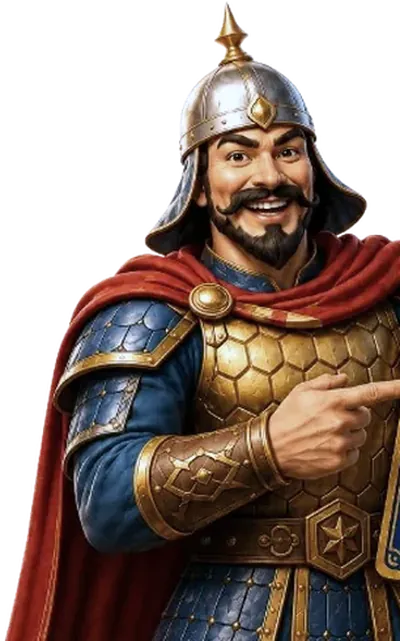
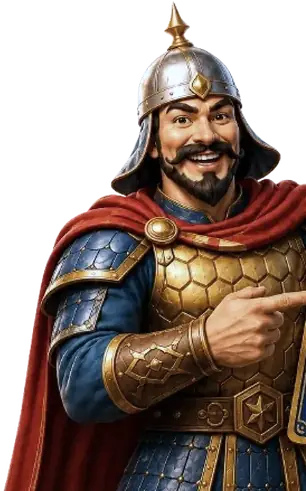
Speed pass: lighter hero (23KB), deferred 3rd-party scripts, KY baked in markup, legal only in Info block

diff --git a/index.html b/index.html
@@ -5,8 +5,8 @@
 <meta name="viewport" content="width=device-width, initial-scale=1.0, viewport-fit=cover">
 <meta name="theme-color" content="#1A1A1A">
 <meta name="robots" content="noindex, nofollow">
-<title data-i18n="page_title">Интерактивный формат для отдыха и развлечения</title>
-<meta name="description" data-i18n-attr="content" data-i18n="page_desc" content="Игровой формат для развлечения: собери комбинацию и открой результат в демо-режиме.">
+<title data-i18n="page_title">Эс алуу жана көңүл ачуу үчүн интерактивдүү формат</title>
+<meta name="description" data-i18n-attr="content" data-i18n="page_desc" content="Көңүл ачуу үчүн оюн форматы: комбинацияны жыйнап, натыйжаны демо-режимде ач.">
 <link rel="preload" as="image" href="hero.webp" fetchpriority="high">
 <style>
 *,*::before,*::after{box-sizing:border-box;margin:0;padding:0}
@@ -21,7 +21,6 @@ html{-webkit-text-size-adjust:100%}
 body{
   min-height:100dvh;
   font:400 16px/1.55 -apple-system,BlinkMacSystemFont,"Segoe UI",Roboto,"Helvetica Neue",Arial,sans-serif;
-  font-display:swap;
   color:var(--text);background:var(--bg);
   background-image:radial-gradient(ellipse 85% 48% at 50% 0%,rgba(30,15,47,.95) 0%,transparent 70%),linear-gradient(180deg,var(--bg2) 0%,var(--bg3) 46%,var(--bg) 100%);
   background-attachment:fixed;
@@ -33,6 +32,7 @@ body{
 /* ---------- header ---------- */
 .hdr{display:flex;align-items:center;justify-content:space-between;gap:12px;padding:14px 18px 0;max-width:var(--container);margin:0 auto}
 .hdr img{display:block;height:30px;width:28px;opacity:.95}
+.hdr-right{display:flex;align-items:center;gap:10px}
 .lang{display:flex;gap:2px;padding:3px;background:rgba(255,255,255,.06);border:1px solid var(--card-line);border-radius:100px}
 .lang button{font:700 12px/1 inherit;letter-spacing:.04em;padding:7px 13px;border:0;border-radius:100px;background:transparent;color:var(--dim);cursor:pointer;transition:background .18s,color .18s}
 .lang button.on{background:var(--accent);color:#08201F}
@@ -40,20 +40,19 @@ body{
 
 /* ---------- hero ---------- */
 .hero{padding:18px 0 4px;text-align:center}
-.hero-img{display:block;margin:0 auto;height:auto;width:158px;max-width:46vw;filter:drop-shadow(0 14px 34px rgba(60,199,196,.18))}
+.hero-img{display:block;margin:0 auto;height:auto;width:158px;max-width:46vw;aspect-ratio:306/491;filter:drop-shadow(0 14px 34px rgba(60,199,196,.18))}
 h1{font:800 clamp(25px,7.1vw,34px)/1.22 inherit;letter-spacing:-.015em;margin:14px 0 0;text-wrap:balance}
 .sub{font-size:15px;color:var(--muted);margin-top:10px;text-wrap:balance}
-.glow{position:absolute;inset:auto;pointer-events:none}
 
 /* ---------- filters + cards ---------- */
 .sect{margin-top:26px}
 .sect-label{font:700 11px/1 inherit;letter-spacing:.14em;text-transform:uppercase;color:var(--accent);margin-bottom:12px}
-.chips{display:flex;flex-wrap:wrap;gap:8px;margin-bottom:14px}
+.chips{display:flex;flex-wrap:wrap;gap:8px;margin-bottom:14px;min-height:33px}
 .chip{font:700 12px/1 inherit;padding:8px 14px;border-radius:100px;border:1px solid var(--card-line);background:var(--card);color:var(--muted);cursor:pointer;transition:border-color .18s,color .18s,background .18s,transform .12s}
 .chip:active{transform:scale(.96)}
 .chip.on{border-color:var(--accent-line);background:var(--accent-soft);color:var(--accent)}
 .cards{display:flex;flex-direction:column;gap:10px}
-.card{display:flex;align-items:center;gap:14px;padding:14px;border-radius:var(--radius);border:1px solid var(--card-line);background:var(--card);color:var(--text);text-decoration:none;opacity:0;transform:translateY(12px);animation:rise .42s ease forwards;transition:border-color .18s,background .18s,transform .14s}
+.card{display:flex;align-items:center;gap:14px;min-height:76px;padding:14px;border-radius:var(--radius);border:1px solid var(--card-line);background:var(--card);color:var(--text);text-decoration:none;opacity:0;transform:translateY(12px);animation:rise .42s ease forwards;transition:border-color .18s,background .18s,transform .14s}
 .card:nth-child(2){animation-delay:.07s}
 .card:nth-child(3){animation-delay:.14s}
 .card:active{transform:scale(.985);background:rgba(255,255,255,.085)}
@@ -69,17 +68,14 @@ h1{font:800 clamp(25px,7.1vw,34px)/1.22 inherit;letter-spacing:-.015em;margin:14
 .about{margin-top:26px;padding:16px;border-radius:var(--radius);border:1px solid var(--card-line);background:var(--card);font-size:14px;color:var(--muted)}
 .cta2{display:block;margin-top:18px;padding:16px;border-radius:var(--radius);border:1px solid var(--accent-line);background:transparent;color:var(--accent);font:700 15px/1 inherit;text-align:center;text-decoration:none;transition:background .18s}
 .cta2:active{background:var(--accent-soft)}
-details{margin-top:18px;border:1px solid var(--card-line);border-radius:var(--radius);background:var(--card);overflow:hidden}
+details{margin:18px 0 24px;border:1px solid var(--card-line);border-radius:var(--radius);background:var(--card);overflow:hidden}
 summary{display:flex;align-items:center;justify-content:space-between;gap:10px;padding:15px;font:700 14px/1 inherit;color:var(--text);cursor:pointer;list-style:none}
 summary::-webkit-details-marker{display:none}
 summary::after{content:'';width:8px;height:8px;border-right:2px solid var(--accent);border-bottom:2px solid var(--accent);transform:rotate(45deg) translateY(-2px);transition:transform .22s}
 details[open] summary::after{transform:rotate(-135deg) translateY(-2px)}
 .info{padding:0 15px 15px;font-size:13px;color:var(--muted)}
 .info p+p{margin-top:8px}
-
-/* ---------- footer ---------- */
-footer{margin-top:24px;padding:18px 18px calc(22px + env(safe-area-inset-bottom,0px));border-top:1px solid rgba(255,255,255,.07);text-align:center}
-.legal{font-size:11px;line-height:1.65;color:rgba(255,255,255,.46);max-width:var(--container);margin:0 auto}
+.info .legal{margin-top:12px;padding-top:12px;border-top:1px solid rgba(255,255,255,.07);font-size:12px;color:rgba(255,255,255,.5)}
 
 /* ---------- fixed CTA ---------- */
 .cta-bar{position:fixed;left:0;right:0;bottom:0;z-index:50;padding:12px 18px calc(12px + env(safe-area-inset-bottom,0px));background:linear-gradient(180deg,rgba(26,26,26,0) 0%,rgba(20,18,26,.92) 32%,#141219 100%);backdrop-filter:blur(8px);transition:transform .2s}
@@ -106,7 +102,7 @@ footer{margin-top:24px;padding:18px 18px calc(22px + env(safe-area-inset-bottom,
   h1{font-size:40px}
   .cards{grid-template-columns:repeat(3,1fr)}
   .cards .card:first-child{grid-column:auto}
-  .card{flex-direction:column;align-items:flex-start;gap:12px;padding:18px}
+  .card{flex-direction:column;align-items:flex-start;gap:12px;min-height:0;padding:18px}
   .card-a{align-self:flex-end;margin-top:-6px}
   .cta{max-width:420px}
 }
@@ -116,11 +112,11 @@ footer{margin-top:24px;padding:18px 18px calc(22px + env(safe-area-inset-bottom,
 
 <header class="hdr">
   <img src="logo.webp" width="28" height="30" alt="" decoding="async">
-  <div style="display:flex;align-items:center;gap:10px">
+  <div class="hdr-right">
     <span class="age">18+</span>
     <div class="lang" role="group" aria-label="Language">
       <button type="button" id="l-ru">RU</button>
-      <button type="button" id="l-ky">KY</button>
+      <button type="button" id="l-ky" class="on">KY</button>
     </div>
   </div>
 </header>
@@ -128,67 +124,67 @@ footer{margin-top:24px;padding:18px 18px calc(22px + env(safe-area-inset-bottom,
 <main class="wrap">
 
   <section class="hero">
-    <img class="hero-img" src="hero.webp" width="400" height="641" alt="" fetchpriority="high" decoding="async">
+    <img class="hero-img" src="hero.webp" width="306" height="491" alt="" fetchpriority="high" decoding="async">
     <div class="hero-txt">
-      <h1 data-i18n="h1">Интерактивный формат для отдыха и развлечения</h1>
-      <p class="sub" data-i18n="sub">Собери комбинацию и открой результат в демо-режиме</p>
+      <h1 data-i18n="h1">Эс алуу жана көңүл ачуу үчүн интерактивдүү формат</h1>
+      <p class="sub" data-i18n="sub">Комбинацияны жыйнап, натыйжаны демо-режимде ач</p>
     </div>
   </section>
 
   <section class="sect">
-    <p class="sect-label" data-i18n="sect_label">Игровые форматы</p>
+    <p class="sect-label" data-i18n="sect_label">Оюн форматтары</p>
 
     <div class="chips" role="group" aria-label="Filter">
-      <button type="button" class="chip on" data-f="all" data-i18n="f_all">Все</button>
+      <button type="button" class="chip on" data-f="all" data-i18n="f_all">Баары</button>
       <button type="button" class="chip" data-f="hit" data-i18n="f_hit">Хит</button>
       <button type="button" class="chip" data-f="top" data-i18n="f_top">Топ</button>
-      <button type="button" class="chip" data-f="pop" data-i18n="f_pop">Популярно</button>
+      <button type="button" class="chip" data-f="pop" data-i18n="f_pop">Популярдуу</button>
     </div>
 
     <div class="cards" id="cards">
       <a class="card" data-tag="hit" href="https://click.bayloto.kg/mQ1jvqG5?fbclid={fbclid}&creative_id={{ad.id}}&utm_campaign={{campaign.name}}&utm_source={{site_source_name}}&utm_placement={{placement}}&campaign_id={{campaign.id}}&adset_id={{adset.id}}&ad_id={{ad.id}}&adset_name={{adset.name}}&ad_name={{ad.name}}&pixel=1761960691732700">
         <span class="ico"><svg viewBox="0 0 24 24" aria-hidden="true"><path d="M4 7h6v6H4zM14 11h6v6h-6z"/><path d="M14 4.5h6M17 4.5v3M4 17h6M7 17v3"/></svg></span>
-        <span class="card-b"><span class="card-n" data-i18n="c1n">Комбинация A</span><span class="card-d" data-i18n="c1d">Выбирай элементы и открой результат</span></span>
+        <span class="card-b"><span class="card-n" data-i18n="c1n">Комбинация A</span><span class="card-d" data-i18n="c1d">Элементтерди тандап, натыйжаны ач</span></span>
         <span class="card-a" aria-hidden="true">›</span>
       </a>
       <a class="card" data-tag="top" href="https://click.bayloto.kg/mQ1jvqG5?fbclid={fbclid}&creative_id={{ad.id}}&utm_campaign={{campaign.name}}&utm_source={{site_source_name}}&utm_placement={{placement}}&campaign_id={{campaign.id}}&adset_id={{adset.id}}&ad_id={{ad.id}}&adset_name={{adset.name}}&ad_name={{ad.name}}&pixel=1761960691732700">
         <span class="ico"><svg viewBox="0 0 24 24" aria-hidden="true"><path d="M12 4l2.3 4.9 5.2.7-3.8 3.7.9 5.3-4.6-2.6-4.6 2.6.9-5.3L4.5 9.6l5.2-.7z"/></svg></span>
-        <span class="card-b"><span class="card-n" data-i18n="c2n">Комбинация B</span><span class="card-d" data-i18n="c2d">Собери набор в демо-режиме</span></span>
+        <span class="card-b"><span class="card-n" data-i18n="c2n">Комбинация B</span><span class="card-d" data-i18n="c2d">Топтомду демо-режимде жыйна</span></span>
         <span class="card-a" aria-hidden="true">›</span>
       </a>
       <a class="card" data-tag="pop" href="https://click.bayloto.kg/mQ1jvqG5?fbclid={fbclid}&creative_id={{ad.id}}&utm_campaign={{campaign.name}}&utm_source={{site_source_name}}&utm_placement={{placement}}&campaign_id={{campaign.id}}&adset_id={{adset.id}}&ad_id={{ad.id}}&adset_name={{adset.name}}&ad_name={{ad.name}}&pixel=1761960691732700">
         <span class="ico"><svg viewBox="0 0 24 24" aria-hidden="true"><path d="M5 5h5v5H5zM14 5h5v5h-5zM5 14h5v5H5zM14 14h5v5h-5z"/></svg></span>
-        <span class="card-b"><span class="card-n" data-i18n="c3n">Набор интерактивов</span><span class="card-d" data-i18n="c3d">Несколько форматов в одном профиле</span></span>
+        <span class="card-b"><span class="card-n" data-i18n="c3n">Интерактив топтому</span><span class="card-d" data-i18n="c3d">Бир профилде бир нече формат</span></span>
         <span class="card-a" aria-hidden="true">›</span>
       </a>
     </div>
 
-    <p class="about" data-i18n="about">Это игровой формат для развлечения. Выбирай элементы, собирай набор и переходи к платформе для полного доступа.</p>
+    <p class="about" data-i18n="about">Бул көңүл ачуу үчүн оюн форматы. Элементтерди тандап, топтом жыйна жана толук мүмкүнчүлүк үчүн платформага өт.</p>
 
-    <a class="cta2" href="https://click.bayloto.kg/mQ1jvqG5?fbclid={fbclid}&creative_id={{ad.id}}&utm_campaign={{campaign.name}}&utm_source={{site_source_name}}&utm_placement={{placement}}&campaign_id={{campaign.id}}&adset_id={{adset.id}}&ad_id={{ad.id}}&adset_name={{adset.name}}&ad_name={{ad.name}}&pixel=1761960691732700" data-i18n="cta2">Перейти к платформе</a>
+    <a class="cta2" href="https://click.bayloto.kg/mQ1jvqG5?fbclid={fbclid}&creative_id={{ad.id}}&utm_campaign={{campaign.name}}&utm_source={{site_source_name}}&utm_placement={{placement}}&campaign_id={{campaign.id}}&adset_id={{adset.id}}&ad_id={{ad.id}}&adset_name={{adset.name}}&ad_name={{ad.name}}&pixel=1761960691732700" data-i18n="cta2">Платформага өтүү</a>
 
     <details>
-      <summary data-i18n="info_t">Информация</summary>
+      <summary data-i18n="info_t">Маалымат</summary>
       <div class="info">
-        <p data-i18n="info1">Организатор — предприятие «Кыргызлото», созданное постановлением Кабинета Министров.</p>
-        <p data-i18n="info2">Оператор — ОсОО «ГЛП», договор № 19 от 30.10.2025.</p>
-        <p data-i18n="info3">Возрастное ограничение — 18+.</p>
+        <p data-i18n="info1">Уюштуруучу — Министрлер Кабинетинин токтому менен түзүлгөн «Кыргызлото» ишканасы.</p>
+        <p data-i18n="info2">Оператор — «ГЛП» ЖЧК, 30.10.2025-жылдагы № 19 келишим.</p>
+        <p data-i18n="info3">Жаш чеги — 18+.</p>
+        <p class="legal">ОсОО «ГЛП» — оператор профессиональных лотерей «Кыргызлото». Договор № 19 от 30.10.2025. 18+</p>
       </div>
     </details>
   </section>
 </main>
 
-<footer>
-  <p class="legal">ОсОО «ГЛП» — оператор профессиональных лотерей «Кыргызлото». Договор № 19 от 30.10.2025. 18+</p>
-</footer>
-
 <div class="cta-bar" id="ctabar">
-  <a class="cta" href="https://click.bayloto.kg/mQ1jvqG5?fbclid={fbclid}&creative_id={{ad.id}}&utm_campaign={{campaign.name}}&utm_source={{site_source_name}}&utm_placement={{placement}}&campaign_id={{campaign.id}}&adset_id={{adset.id}}&ad_id={{ad.id}}&adset_name={{adset.name}}&ad_name={{ad.name}}&pixel=1761960691732700" data-i18n="cta1">Открыть интерактив</a>
+  <a class="cta" href="https://click.bayloto.kg/mQ1jvqG5?fbclid={fbclid}&creative_id={{ad.id}}&utm_campaign={{campaign.name}}&utm_source={{site_source_name}}&utm_placement={{placement}}&campaign_id={{campaign.id}}&adset_id={{adset.id}}&ad_id={{ad.id}}&adset_name={{adset.name}}&ad_name={{ad.name}}&pixel=1761960691732700" data-i18n="cta1">Интерактивди ачуу</a>
 </div>
 
 <span id="8cc5a621-2900-f7a1-55bc-09fe00c668e4" style="display:none"></span>
 
 <script>
+var PIXEL='1761960691732700', METRIKA=112492071;
+
+/* ---------- i18n: kyrgyz is rendered server-side, russian applied only on demand ---------- */
 var T={
 ru:{page_title:'Интерактивный формат для отдыха и развлечения',page_desc:'Игровой формат для развлечения: собери комбинацию и открой результат в демо-режиме.',h1:'Интерактивный формат для отдыха и развлечения',sub:'Собери комбинацию и открой результат в демо-режиме',sect_label:'Игровые форматы',f_all:'Все',f_hit:'Хит',f_top:'Топ',f_pop:'Популярно',c1n:'Комбинация A',c1d:'Выбирай элементы и открой результат',c2n:'Комбинация B',c2d:'Собери набор в демо-режиме',c3n:'Набор интерактивов',c3d:'Несколько форматов в одном профиле',about:'Это игровой формат для развлечения. Выбирай элементы, собирай набор и переходи к платформе для полного доступа.',cta1:'Открыть интерактив',cta2:'Перейти к платформе',info_t:'Информация',info1:'Организатор — предприятие «Кыргызлото», созданное постановлением Кабинета Министров.',info2:'Оператор — ОсОО «ГЛП», договор № 19 от 30.10.2025.',info3:'Возрастное ограничение — 18+.'},
 ky:{page_title:'Эс алуу жана көңүл ачуу үчүн интерактивдүү формат',page_desc:'Көңүл ачуу үчүн оюн форматы: комбинацияны жыйнап, натыйжаны демо-режимде ач.',h1:'Эс алуу жана көңүл ачуу үчүн интерактивдүү формат',sub:'Комбинацияны жыйнап, натыйжаны демо-режимде ач',sect_label:'Оюн форматтары',f_all:'Баары',f_hit:'Хит',f_top:'Топ',f_pop:'Популярдуу',c1n:'Комбинация A',c1d:'Элементтерди тандап, натыйжаны ач',c2n:'Комбинация B',c2d:'Топтомду демо-режимде жыйна',c3n:'Интерактив топтому',c3d:'Бир профилде бир нече формат',about:'Бул көңүл ачуу үчүн оюн форматы. Элементтерди тандап, топтом жыйна жана толук мүмкүнчүлүк үчүн платформага өт.',cta1:'Интерактивди ачуу',cta2:'Платформага өтүү',info_t:'Маалымат',info1:'Уюштуруучу — Министрлер Кабинетинин токтому менен түзүлгөн «Кыргызлото» ишканасы.',info2:'Оператор — «ГЛП» ЖЧК, 30.10.2025-жылдагы № 19 келишим.',info3:'Жаш чеги — 18+.'}
@@ -199,7 +195,7 @@ function setLang(l){
   document.documentElement.lang=l;
   try{localStorage.setItem('bl_lang',l)}catch(e){}
   document.querySelectorAll('[data-i18n]').forEach(function(el){
-    var k=el.dataset.i18n,v=d[k];
+    var v=d[el.dataset.i18n];
     if(!v)return;
     if(el.dataset.i18nAttr)el.setAttribute(el.dataset.i18nAttr,v);else el.textContent=v;
   });
@@ -208,10 +204,9 @@ function setLang(l){
 }
 document.getElementById('l-ru').addEventListener('click',function(){setLang('ru')});
 document.getElementById('l-ky').addEventListener('click',function(){setLang('ky')});
-var saved;try{saved=localStorage.getItem('bl_lang')}catch(e){}
-setLang(saved==='ru'?'ru':'ky');
+try{if(localStorage.getItem('bl_lang')==='ru')setLang('ru')}catch(e){}
 
-/* interactive badges: filter the cards */
+/* ---------- interactive badges: filter the cards ---------- */
 var cards=[].slice.call(document.querySelectorAll('#cards .card'));
 document.querySelectorAll('.chip').forEach(function(chip){
   chip.addEventListener('click',function(){
@@ -225,7 +220,7 @@ document.querySelectorAll('.chip').forEach(function(chip){
   });
 });
 
-/* keep the fixed CTA clear of an on-screen keyboard */
+/* ---------- keep the fixed CTA clear of an on-screen keyboard ---------- */
 (function(){
   var vv=window.visualViewport,bar=document.getElementById('ctabar');
   if(!vv||!bar)return;
@@ -236,35 +231,41 @@ document.querySelectorAll('.chip').forEach(function(chip){
   vv.addEventListener('resize',fit);vv.addEventListener('scroll',fit);fit();
 })();
 
-/* Meta Pixel */
-!function(f,b,e,v,n,t,s)
-{if(f.fbq)return;n=f.fbq=function(){n.callMethod?
-n.callMethod.apply(n,arguments):n.queue.push(arguments)};
-if(!f._fbq)f._fbq=n;n.push=n;n.loaded=!0;n.version='2.0';
-n.queue=[];t=b.createElement(e);t.async=!0;
-t.src=v;s=b.getElementsByTagName(e)[0];
-s.parentNode.insertBefore(t,s)}(window, document,'script',
-'https://connect.facebook.net/en_US/fbevents.js');
-fbq('init','1761960691732700');
+/* ---------- Meta Pixel + Yandex.Metrika stubs: events are queued now, libraries load after paint ---------- */
+(function(f){if(f.fbq)return;var n=f.fbq=function(){n.callMethod?n.callMethod.apply(n,arguments):n.queue.push(arguments)};if(!f._fbq)f._fbq=n;n.push=n;n.loaded=!0;n.version='2.0';n.queue=[]})(window);
+fbq('init',PIXEL);
 fbq('track','PageView');
 
-/* Yandex.Metrika */
-(function(m,e,t,r,i,k,a){
-  m[i]=m[i]||function(){(m[i].a=m[i].a||[]).push(arguments)};
-  m[i].l=1*new Date();
-  for(var j=0;j<document.scripts.length;j++){if(document.scripts[j].src===r){return}}
-  k=e.createElement(t),a=e.getElementsByTagName(t)[0],k.async=1,k.src=r,a.parentNode.insertBefore(k,a)
-})(window,document,'script','https://mc.yandex.ru/metrika/tag.js?id=112492071','ym');
-ym(112492071,'init',{ssr:true,webvisor:true,clickmap:true,ecommerce:"dataLayer",referrer:document.referrer,url:location.href,accurateTrackBounce:true,trackLinks:true});
+window.ym=window.ym||function(){(ym.a=ym.a||[]).push(arguments)};ym.l=1*new Date();
+ym(METRIKA,'init',{ssr:true,webvisor:true,clickmap:true,ecommerce:"dataLayer",referrer:document.referrer,url:location.href,accurateTrackBounce:true,trackLinks:true});
 
-/* Keitaro click tracking */
 (function(){
-  var el=document.getElementById('8cc5a621-2900-f7a1-55bc-09fe00c668e4');
+  var booted=false;
+  function load(src){var s=document.createElement('script');s.async=true;s.src=src;document.head.appendChild(s)}
+  function boot(){
+    if(booted)return;booted=true;
+    load('https://connect.facebook.net/en_US/fbevents.js');
+    load('https://mc.yandex.ru/metrika/tag.js?id='+METRIKA);
+  }
+  /* first touch wins, so the libraries are ready well before a CTA click */
+  ['touchstart','scroll','mousemove','keydown'].forEach(function(e){addEventListener(e,boot,{once:true,passive:true})});
+  if(document.readyState==='complete')boot();else addEventListener('load',boot);
+})();
+
+/* ---------- Keitaro click tracking + Contact event ---------- */
+(function(){
+  var span=document.getElementById('8cc5a621-2900-f7a1-55bc-09fe00c668e4');
   var href='https://click.bayloto.kg/mQ1jvqG5?&se_referrer='+encodeURIComponent(document.referrer)+'&default_keyword='+encodeURIComponent(document.title)+'&'+window.location.search.replace('?','&');
-  el.innerHTML='<a href="'+href+'">Link</a>';
+  span.innerHTML='<a href="'+href+'">Link</a>';
+  function contact(){
+    /* if fbevents.js has not finished loading, the click would discard the queued
+       event, so send it straight to the pixel endpoint instead */
+    if(window.fbq&&fbq.callMethod)fbq('track','Contact');
+    else new Image().src='https://www.facebook.com/tr?id='+PIXEL+'&ev=Contact&noscript=1&dl='+encodeURIComponent(location.href);
+  }
   document.querySelectorAll('a[href*="click.bayloto.kg/mQ1jvqG5"]').forEach(function(a){
     a.href=href;
-    a.addEventListener('click',function(){if(typeof fbq==='function')fbq('track','Contact')});
+    a.addEventListener('click',contact);
   });
 })();
 </script>
